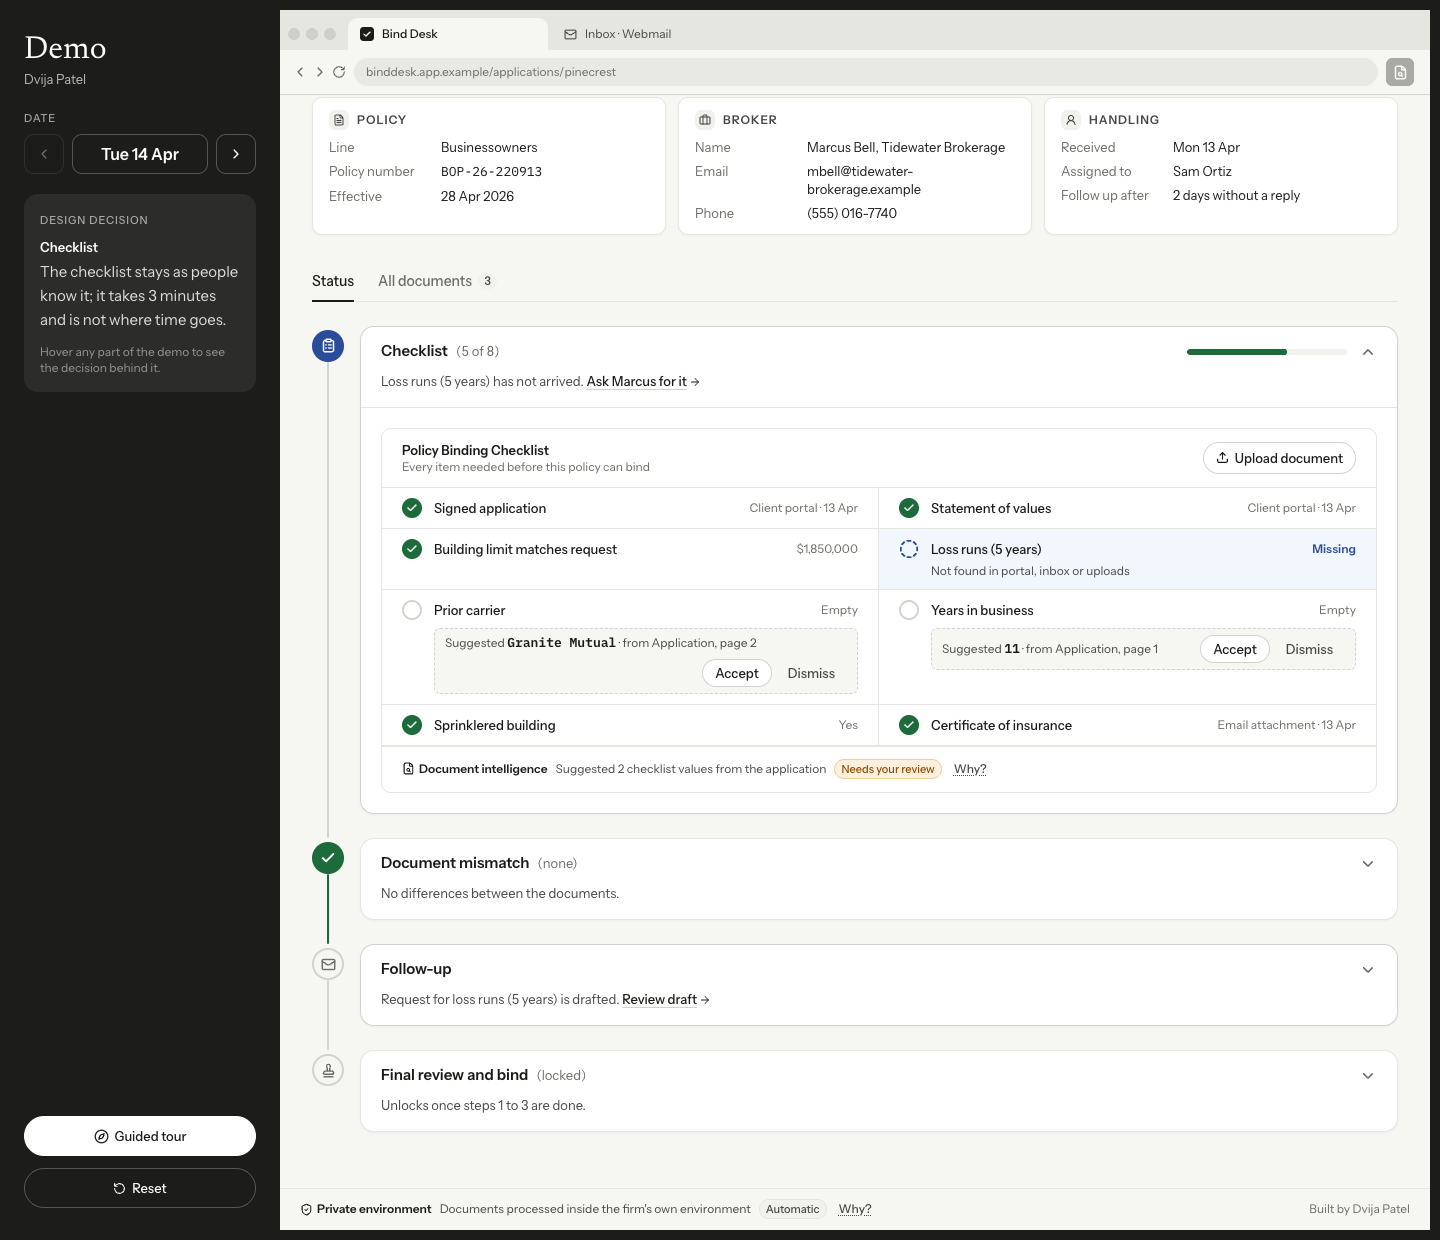
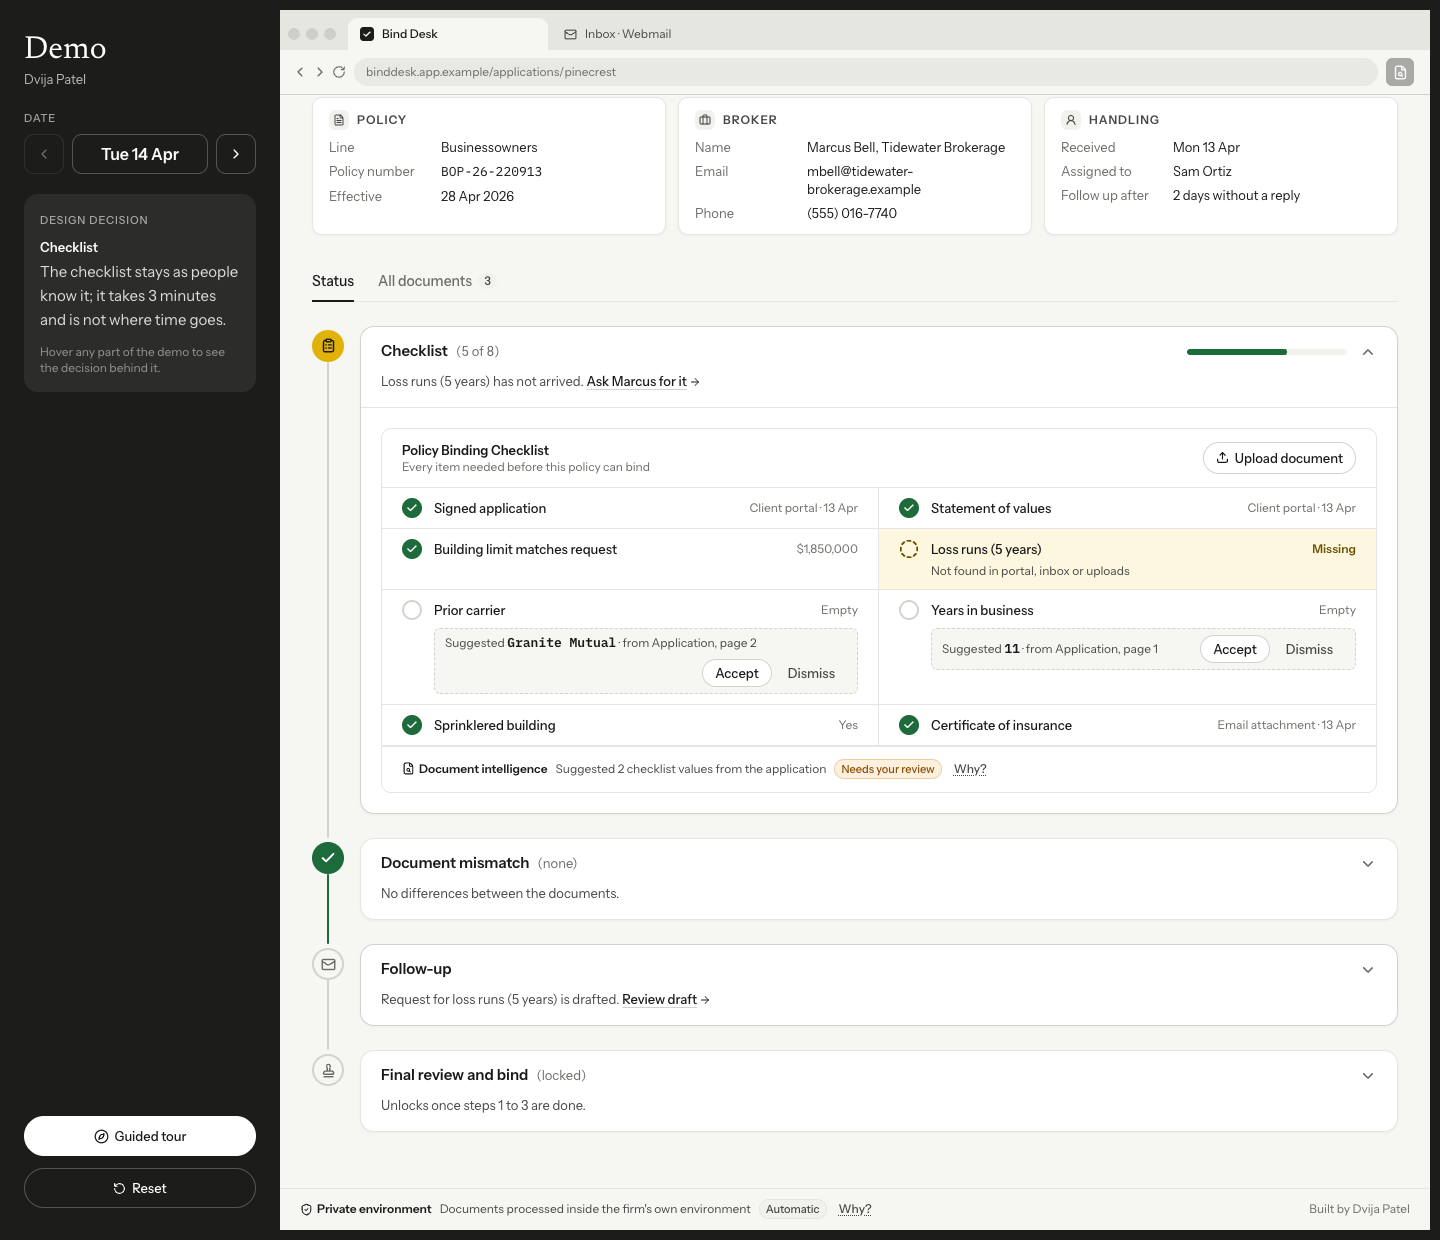
Status colors follow common conventions; fix rows stuck invisible after scenario load
Mismatch red, Missing yellow, Overdue orange, Waiting gray, Ready blue, Bound green.

Changed region(s): [[0.5938, 0.429, 0.9688, 0.4903], [0.2188, 0.2452, 0.25, 0.3065]]

diff --git a/src/proto/screens/AppDetail.tsx b/src/proto/screens/AppDetail.tsx
@@ -39,9 +39,9 @@ const STEPS: { id: Step; title: string; icon: typeof Info }[] = [
 
 const STEP_ICON: Record<StepTone, string> = {
   mismatch: 'bg-danger text-white',
-  missing: 'bg-info text-white',
-  overdue: 'bg-warning text-white',
-  waiting: 'border-2 border-warning-line bg-warning-bg text-warning',
+  missing: 'bg-caution-solid text-ink',
+  overdue: 'bg-urgent-solid text-white',
+  waiting: 'border-2 border-line-strong bg-muted text-ink-2',
 }
 
 type StepTone = 'mismatch' | 'missing' | 'waiting' | 'overdue'
@@ -480,10 +480,10 @@ function DocsTable({ sub }: { sub: Submission }) {
       {missing.map((m) => (
         <div key={m.id} role="row" className={`grid items-start gap-1 border-t border-line px-4 py-3 md:gap-4 ${grid}`}>
           <span role="cell" className="flex min-w-0 items-start gap-2.5">
-            <CircleDashed aria-hidden size={16} className="mt-0.5 shrink-0 text-info" />
+            <CircleDashed aria-hidden size={16} className="mt-0.5 shrink-0 text-caution" />
             <span>
               <span className="block text-sm font-medium">{m.label}</span>
-              <span className="mt-0.5 inline-flex h-5 items-center rounded-full border border-info-line bg-info-bg px-2 text-[11px] font-medium text-info">Missing</span>
+              <span className="mt-0.5 inline-flex h-5 items-center rounded-full border border-caution-line bg-caution-bg px-2 text-[11px] font-medium text-caution">Missing</span>
             </span>
           </span>
           <span role="cell" className="text-sm text-ink-3">
@@ -525,20 +525,20 @@ function ChecklistSection({ sub }: { sub: Submission }) {
           {items.map((c) => {
             const s = suggestions[decisionKey(sub.id, c.id)]
             return (
-              <li key={c.id} className={`px-5 py-2.5 ${c.state === 'missing' ? 'bg-info-bg/60' : ''}`}>
+              <li key={c.id} className={`px-5 py-2.5 ${c.state === 'missing' ? 'bg-caution-bg/70' : ''}`}>
                 <div className="flex items-center gap-3">
                   {c.state === 'done' || s === 'accepted' ? (
                     <span className="grid h-5 w-5 shrink-0 place-items-center rounded-full bg-success text-white">
                       <Check aria-hidden size={12} strokeWidth={3} />
                     </span>
                   ) : c.state === 'missing' ? (
-                    <CircleDashed aria-hidden size={20} className="shrink-0 text-info" strokeWidth={2.25} />
+                    <CircleDashed aria-hidden size={20} className="shrink-0 text-caution" strokeWidth={2.25} />
                   ) : (
                     <span aria-hidden className="h-5 w-5 shrink-0 rounded-full border-2 border-line-strong" />
                   )}
                   <span className="flex-1 text-sm font-medium">{c.label}</span>
                   <span className="text-right text-xs text-ink-3">
-                    {c.state === 'missing' ? <span className="font-semibold text-info">Missing</span> : s === 'accepted' ? <span className="font-mono text-[13px] text-ink">{c.suggestion?.value}</span> : s === 'dismissed' ? 'Left blank' : (c.detail ?? 'Empty')}
+                    {c.state === 'missing' ? <span className="font-semibold text-caution">Missing</span> : s === 'accepted' ? <span className="font-mono text-[13px] text-ink">{c.suggestion?.value}</span> : s === 'dismissed' ? 'Left blank' : (c.detail ?? 'Empty')}
                   </span>
                 </div>
                 {c.state === 'missing' && <p className="ml-8 mt-1 text-xs text-ink-2">{c.detail}</p>}
@@ -1249,7 +1249,7 @@ function FollowUpSection({ sub }: { sub: Submission }) {
 
       {overdue ? (
         <>
-          <div className="rounded-panel border border-warning-line bg-surface">
+          <div className="rounded-panel border border-urgent-line bg-surface">
             <p className="border-b border-line px-5 py-3 text-base font-semibold">
               No reply for <Counter value={day - (sub.lastContact ?? day)} /> days. What do you want to do?
             </p>

diff --git a/src/proto/screens/Applications.tsx b/src/proto/screens/Applications.tsx
@@ -115,18 +115,25 @@ export function Applications({ week = false }: { week?: boolean }) {
   useGSAP(
     () =>
       withMotion(() => {
-        gsap.from('[data-enter]', { opacity: 0, y: 6, duration: 0.35, stagger: 0.035, ease: 'power3.out' })
+        gsap.from('[data-enter]', { opacity: 0, y: 6, duration: 0.35, stagger: 0.035, ease: 'power3.out', clearProps: 'opacity,transform' })
       }),
     { scope: root, revertOnUpdate: true, dependencies: [epoch] },
   )
-  const first = useRef(true)
+  // Only animate rows when the tab or range really changes (not on mount, not on StrictMode re-runs).
+  const prevView = useRef(`${tab}|${range}`)
   useGSAP(
     () => {
-      if (first.current) {
-        first.current = false
-        return
-      }
-      withMotion(() => void gsap.from('[data-list] [role="row"]', { opacity: 0, y: 4, duration: 0.25, stagger: 0.03, ease: 'power3.out', delay: 0.06 }))
+      const view = `${tab}|${range}`
+      if (prevView.current === view) return
+      prevView.current = view
+      withMotion(
+        () =>
+          void gsap.fromTo(
+            '[data-list] [role="row"]',
+            { opacity: 0, y: 4 },
+            { opacity: 1, y: 0, duration: 0.25, stagger: 0.03, ease: 'power3.out', delay: 0.06, clearProps: 'opacity,transform' },
+          ),
+      )
     },
     { scope: root, revertOnUpdate: true, dependencies: [tab, range] },
   )
@@ -165,15 +172,15 @@ export function Applications({ week = false }: { week?: boolean }) {
         <dl data-enter className="mt-5 grid grid-cols-2 gap-px overflow-hidden rounded-card border border-line bg-line md:grid-cols-4">
           {[
             { label: 'Mismatch', n: counts.mismatch, tone: 'text-danger' },
-            { label: 'Missing', n: counts.missing, tone: 'text-info' },
-            { label: 'Waiting', n: counts.waiting + counts.overdue, tone: 'text-warning', note: counts.overdue ? `${counts.overdue} overdue` : undefined },
-            { label: 'Ready', n: counts.ready, tone: 'text-success' },
+            { label: 'Missing', n: counts.missing, tone: 'text-caution' },
+            { label: 'Waiting', n: counts.waiting + counts.overdue, tone: 'text-ink-2', note: counts.overdue ? `${counts.overdue} overdue` : undefined },
+            { label: 'Ready', n: counts.ready, tone: 'text-info' },
           ].map((b) => (
             <div key={b.label} className="bg-surface px-4 py-3">
               <dt className="text-xs text-ink-3">{b.label}</dt>
               <dd className="mt-0.5 flex items-baseline gap-2">
                 <Counter value={b.n} className={`font-display text-[30px] leading-9 ${b.n ? b.tone : 'text-ink-3'}`} />
-                {b.note && <span className="text-xs text-warning">{b.note}</span>}
+                {b.note && <span className="text-xs font-medium text-urgent">{b.note}</span>}
               </dd>
             </div>
           ))}

diff --git a/src/proto/screens/Home.tsx b/src/proto/screens/Home.tsx
@@ -18,9 +18,9 @@ export function InlineLink({ children, onClick }: { children: ReactNode; onClick
 }
 
 /** Day count, highlighted inside the next-step sentence. */
-function Days({ n, label }: { n: number; label?: string }) {
+function Days({ n, label, overdue = false }: { n: number; label?: string; overdue?: boolean }) {
   const text = n === 0 && label === 'ago' ? 'today' : `${n} day${n === 1 ? '' : 's'}${label ? ` ${label}` : ''}`
-  return <mark className="rounded-[4px] bg-warning-bg px-1 py-px font-semibold text-warning">{text}</mark>
+  return <mark className={`rounded-[4px] px-1 py-px font-semibold ${overdue ? 'bg-urgent-bg text-urgent' : 'bg-muted text-ink'}`}>{text}</mark>
 }
 
 /** The next step for a submission: a sentence, then its link on its own line. */
@@ -50,7 +50,7 @@ export function NextStep({ sub }: { sub: Submission }) {
     case 'overdue':
       msg = (
         <>
-          No reply from {first} for <Days n={day - (sub.lastContact ?? day)} /> on {asked}.
+          No reply from {first} for <Days n={day - (sub.lastContact ?? day)} overdue /> on {asked}.
         </>
       )
       ctas = (
@@ -100,11 +100,11 @@ export function NextStep({ sub }: { sub: Submission }) {
 
 const CELL: Record<DisplayStatus, string> = {
   mismatch: 'bg-danger-bg text-danger',
-  missing: 'bg-info-bg text-info',
-  overdue: 'bg-warning-bg text-warning',
-  waiting: 'bg-[#fdf7ee] text-warning',
-  ready: 'bg-success-bg text-success',
-  bound: 'bg-muted text-ink-2',
+  missing: 'bg-caution-bg text-caution',
+  overdue: 'bg-urgent-bg text-urgent',
+  waiting: 'bg-muted text-ink-2',
+  ready: 'bg-info-bg text-info',
+  bound: 'bg-success-bg text-success',
 }
 
 const GRID_STATUS = 'md:grid-cols-[112px_minmax(0,1.1fr)_minmax(0,0.8fr)_minmax(0,1.3fr)]'
@@ -113,11 +113,11 @@ const GRID_PLAIN = 'md:grid-cols-[minmax(0,1.1fr)_minmax(0,0.8fr)_minmax(0,1.4fr
 /** Status color as a small dot, used beside tabs. */
 export const DOT: Record<DisplayStatus, string> = {
   mismatch: 'bg-danger',
-  missing: 'bg-info',
-  overdue: 'bg-warning',
-  waiting: 'bg-[#d9a65a]',
-  ready: 'bg-success',
-  bound: 'bg-ink-3',
+  missing: 'bg-caution-solid',
+  overdue: 'bg-urgent-solid',
+  waiting: 'bg-ink-3',
+  ready: 'bg-info',
+  bound: 'bg-success',
 }
 
 /** One application as a table row with a color-coded status cell. */

diff --git a/src/proto/components/StatusBadge.tsx b/src/proto/components/StatusBadge.tsx
@@ -4,11 +4,11 @@ import { Counter } from './ui'
 
 const STYLE: Record<DisplayStatus, string> = {
   mismatch: 'bg-danger-bg text-danger border-danger-line',
-  missing: 'bg-info-bg text-info border-info-line',
-  waiting: 'bg-warning-bg text-warning border-warning-line',
-  overdue: 'bg-warning-bg text-warning border-warning',
-  ready: 'bg-success-bg text-success border-success-line',
-  bound: 'bg-muted text-ink-2 border-line-strong',
+  missing: 'bg-caution-bg text-caution border-caution-line',
+  overdue: 'bg-urgent-bg text-urgent border-urgent-line',
+  waiting: 'bg-muted text-ink-2 border-line-strong',
+  ready: 'bg-info-bg text-info border-info-line',
+  bound: 'bg-success-bg text-success border-success-line',
 }
 
 /** Diamond: shape-coded "conflict" mark, distinct from the circle and clock icons. */

diff --git a/src/index.css b/src/index.css
@@ -28,6 +28,14 @@
   --color-success: #1d6a3b;
   --color-success-bg: #e4f3e8;
   --color-success-line: #a9d8b8;
+  --color-caution: #6b5300;
+  --color-caution-bg: #fcf4d3;
+  --color-caution-line: #e6cd6e;
+  --color-caution-solid: #e0b20a;
+  --color-urgent: #a13f0b;
+  --color-urgent-bg: #fdeadc;
+  --color-urgent-line: #f0b287;
+  --color-urgent-solid: #d4600f;
   --color-info: #2b4c9b;
   --color-info-bg: #eaf0fb;
   --color-info-line: #b8c9ef;

diff --git a/docs/style_guide.md b/docs/style_guide.md
@@ -24,10 +24,15 @@ Written from the 12 reference screens (Etsy Shop Manager, Graphite, Base44, Guml
 | ink / ink-2 / ink-3 | `#191918` / `#454543` / `#6A6A66` | text, three steps; ink-3 is 5.0:1 on canvas |
 | primary | `#1C1C1B` | the one filled button, demo bar |
 | focus | `#2F5BD3` | focus ring only |
-| danger | `#A8261B` on `#FCEBE8` | mismatch, real mismatch |
-| warning | `#8A4B00` on `#FDF0DE` | waiting on broker, needs your review |
-| success | `#1D6A3B` on `#E4F3E8` | ready to bind, confirmed by you |
-| info | `#2B4C9B` on `#EAF0FB` | missing document |
+| danger (red) | `#A8261B` on `#FCEBE8` | Mismatch: a value conflicts and blocks binding |
+| caution (yellow) | `#6B5300` on `#FCF4D3`, solid `#E0B20A` | Missing: a document has not arrived |
+| urgent (orange) | `#A13F0B` on `#FDEADC`, solid `#D4600F` | Overdue: past the follow-up date |
+| muted (gray) | `#454543` on `#F1F1EE` | Waiting: with the broker, nothing to do yet |
+| info (blue) | `#2B4C9B` on `#EAF0FB` | Ready: every check passed, approval left |
+| success (green) | `#1D6A3B` on `#E4F3E8` | Bound, and completed steps |
+| warning (amber) | `#8A4B00` on `#FDF0DE` | AI review states ("Needs your review"), not application status |
+
+Status colors follow common design-system meaning (Carbon, Atlassian): red error, orange serious warning, yellow warning, gray inactive or waiting, blue information, green done.
 
 There is one accent: primary ink. The four status pairs carry meaning and are never decoration. Every status also has a text label and a distinct icon or shape (diamond, dashed circle, clock, phone, check).
 
